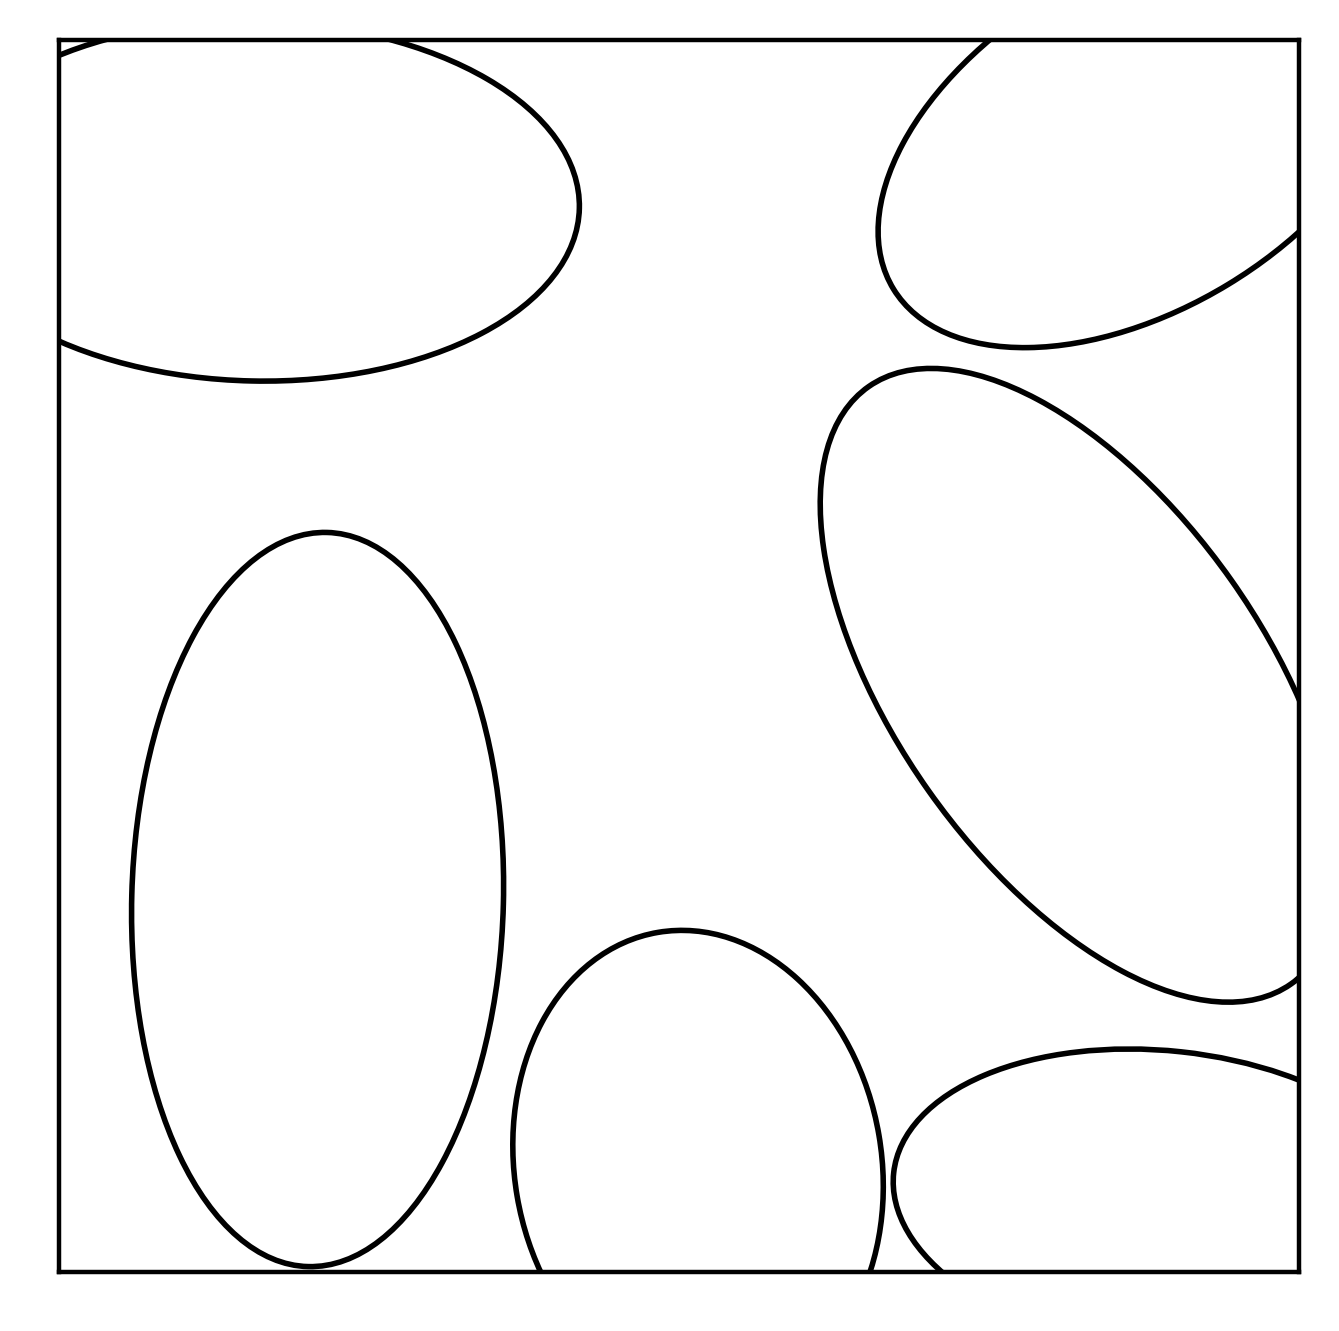
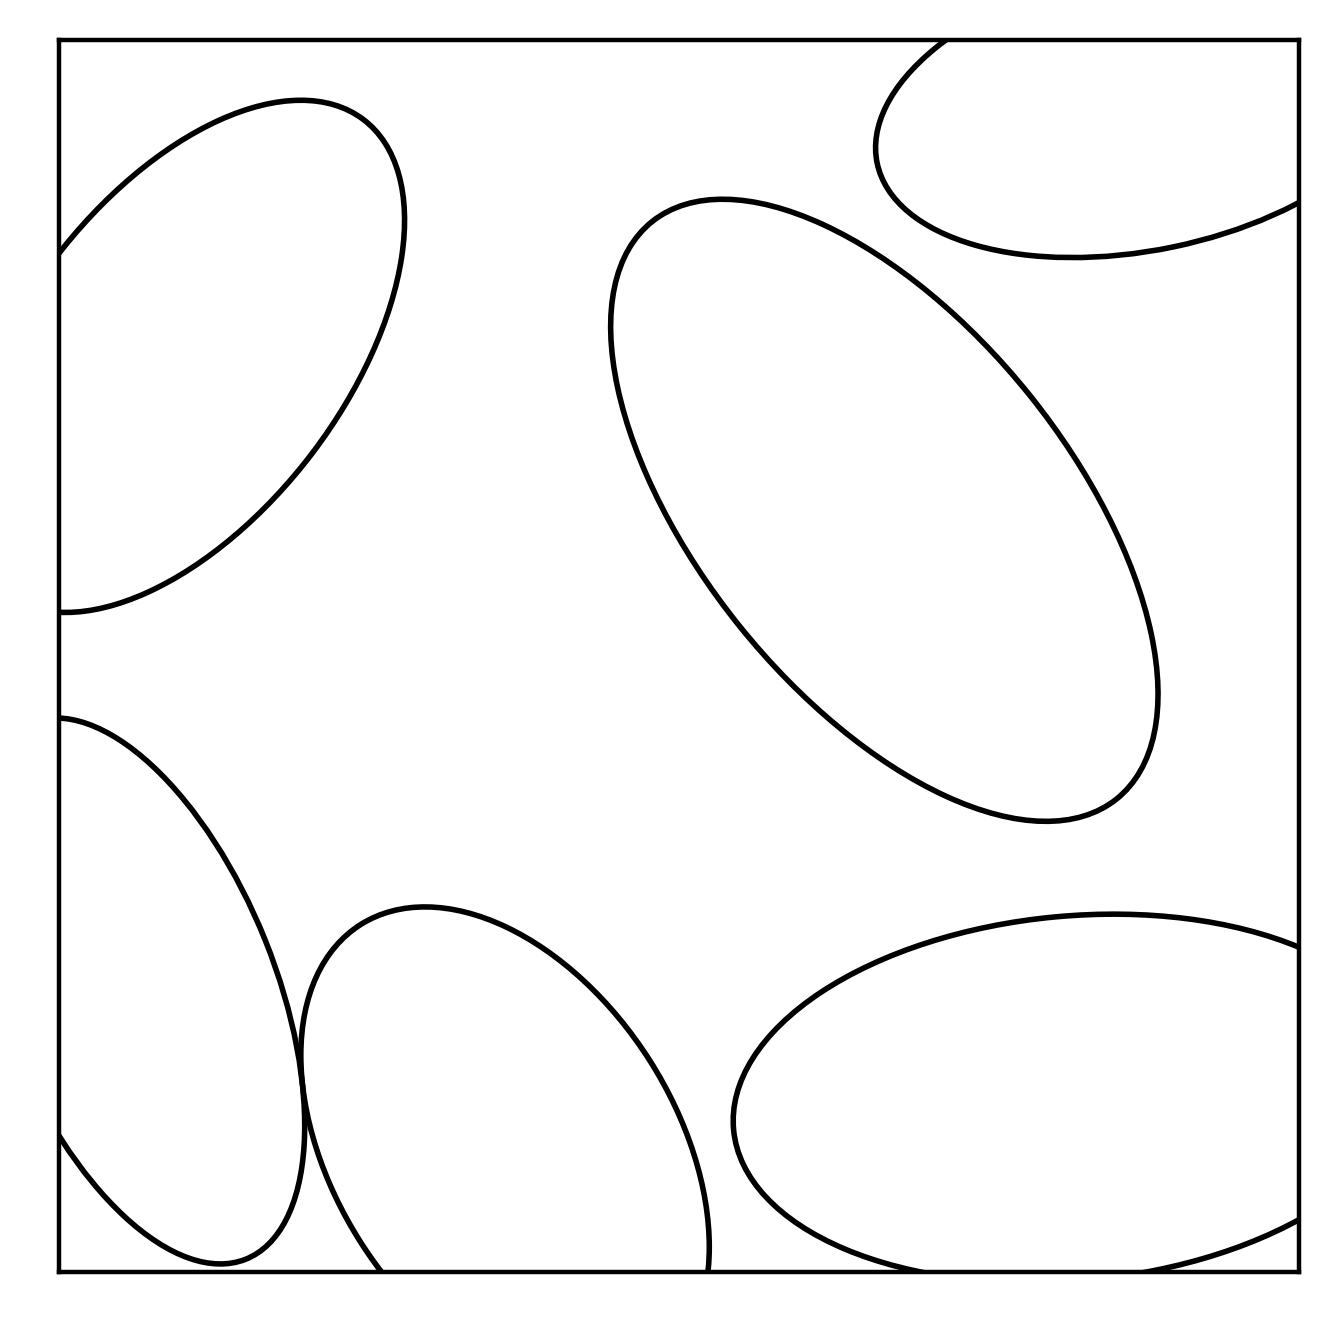
experimenting more with frog blur example

diff --git a/numerical_examples/blur/blur_example.py b/numerical_examples/blur/blur_example.py
@@ -26,6 +26,8 @@ def frog_function(
     theta = np.pi * (mu[0] + mu[1])
     Rot_matrix = np.array([[np.cos(theta), -np.sin(theta)], [np.sin(theta), np.cos(theta)]])
 
+    bump = mu[0]*(1 - mu[0])*mu[1]*(1-mu[1])
+
     pp = (xx - mu.reshape((1,2))) @ Rot_matrix.T #@ Rot_matrix.T
     inv_Sigma = np.linalg.inv(Sigma)
     t_squared_over_sigma_squared = np.einsum('ai,ai->a', pp, np.einsum('ij,aj->ai', inv_Sigma, pp))
@@ -33,7 +35,7 @@ def frog_function(
 
     cos_x_over_sigma = np.cos(pp[:,0] / (np.sqrt(Sigma[0,0]) / 2.0))
     sin_y_over_sigma = np.sin(pp[:,1] / (np.sqrt(Sigma[1,1]) / 2.0))
-    return (1.0 + a * cos_x_over_sigma * sin_y_over_sigma) * G
+    return bump * (1.0 + a * cos_x_over_sigma * sin_y_over_sigma) * G
 
 
 def frog_setup(
@@ -280,7 +282,9 @@ for b in bb:
 
 #### Compute error as a function of number of batches
 
-nx = 63
+raise RuntimeError
+
+nx = 49
 length_scaling = 0.25
 a = 1.0
 Ker, phi_function, Vh, H, mass_lumps, dof_coords = frog_setup(nx, length_scaling, a)
@@ -290,9 +294,54 @@ psf_object = lpsf1.make_psf_fenics(
     lambda X: H.T @ X,
     Vh, Vh,
     mass_lumps, mass_lumps,
-    num_initial_batches=0,
-    tau = 5.0, display=True,
+    num_initial_batches=10,#0,
+    tau = 1.0, display=True,
 )
+
+Ker_psf = psf_object.psf_object.psf_kernel.cpp_object.eval_integral_kernel_block(dof_coords.T, dof_coords.T)
+err_psf = np.linalg.norm(Ker_psf - Ker) / np.linalg.norm(Ker)
+print('err_psf=', err_psf)
+
+ker_err_func = dl.Function(Vh)
+ker_err_vec = np.linalg.norm(Ker_psf - Ker, axis=0) / np.linalg.norm(Ker, axis=0)
+# ker_err_vec = np.linalg.norm(Ker_psf - Ker, axis=0) / (np.linalg.norm(Ker) / np.sqrt(Ker.shape[1]))
+ker_err_vec[np.linalg.norm(Ker, axis=0) == 0] = 0.0
+ker_err_func.vector()[:] = ker_err_vec
+# ker_err_func.vector()[:] = ker_err_vec > 0.03
+plt.figure()
+cm = dl.plot(ker_err_func, cmap='binary')
+plt.colorbar(cm)
+sp = psf_object.psf_object.impulse_response_batches.sample_points
+plt.plot(sp[:,0], sp[:,1], '.r')
+plt.title('ker error')
+
+
+raise RuntimeError
+
+ii = nearest_ind_func(dof_coords, np.array([0.5, 0.2]))
+e_func = dl.Function(Vh)
+e_func.vector()[:] = (Ker_psf[:,ii] - Ker[:,ii]).copy()
+plt.figure()
+cm = dl.plot(e_func, cmap='binary')
+plt.colorbar(cm)
+plt.title('phi error')
+
+phi_func = dl.Function(Vh)
+phi_func.vector()[:] = Ker[:,ii].copy()
+plt.figure()
+cm = dl.plot(phi_func, cmap='binary')
+plt.colorbar(cm)
+plt.title('phi')
+
+phi_psf_func = dl.Function(Vh)
+phi_psf_func.vector()[:] = Ker_psf[:,ii].copy()
+plt.figure()
+cm = dl.plot(phi_psf_func, cmap='binary')
+plt.colorbar(cm)
+plt.title('phi psf')
+
+
+raise RuntimeError
 
 all_num_batches = []
 all_num_impulses = []
